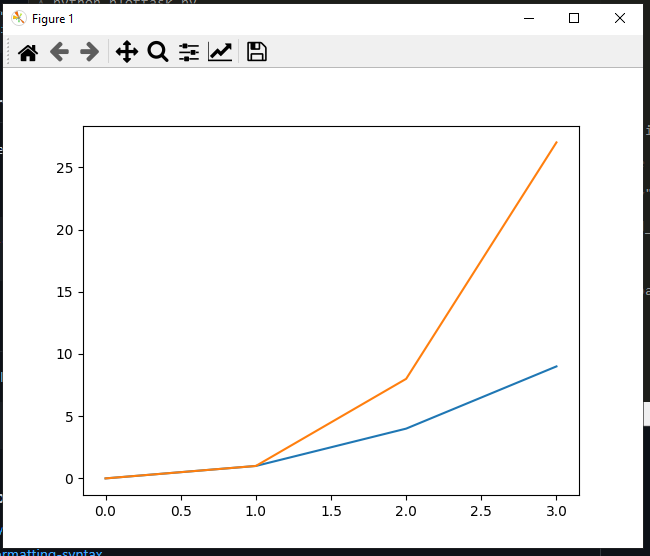
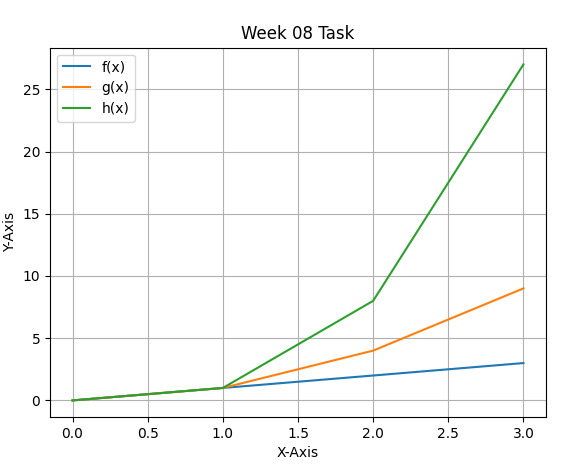
Updating plottask

diff --git a/plottask.py b/plottask.py
@@ -1,4 +1,4 @@
-# Weel 08 Task
+# Week 08 Task
 # Author: Andras Csullog
 
 # Write a program called plottask.py that displays a plot of the functions 
@@ -7,14 +7,21 @@
 # h(x)=x3 
 # in the range [0, 4] on the one set of axes. 
 
-import matplotlib.pyplot as plt
+import matplotlib.pyplot as plt 
 import numpy as np
 
-fpoints = np.array(range(0,4)) 
-gpoints = fpoints * fpoints 
-hpoints = fpoints * fpoints * fpoints
+x = np.array(range(0,4))
+y = x * x
+z = x * x * x
 
-plt.plot(fpoints, gpoints, hpoints)
+plt.title ("Week 08 Task")
+plt.plot (x, x, label = "f(x)")
+plt.plot(x, y, label = "g(x)")
+plt.plot (x, z, label = "h(x)")
+plt.legend ()
+plt.xlabel("X-Axis")
+plt.ylabel("Y-Axis")
+plt.grid()
 plt.show()
 
 # Used or chcked references:
@@ -22,3 +29,7 @@ plt.show()
 # https://stackoverflow.com/questions/18176591/importerror-no-module-named-matplotlib-pyplot 
 # https://www.southampton.ac.uk/~fangohr/teaching/python/book/html/16-scipy.html
 # https://www.w3schools.com/python/matplotlib_plotting.asp
+# https://pythonprogramming.net/legends-titles-labels-matplotlib-tutorial/
+# https://stackoverflow.com/questions/44813601/how-to-set-x-axis-values-in-matplotlib-python
+# https://www.geeksforgeeks.org/how-to-set-x-axis-values-in-matplotlib-in-python/
+# https://www.w3schools.com/python/matplotlib_grid.asp

diff --git a/README.md b/README.md
@@ -76,8 +76,10 @@ A program that displays a plot of the functions f(x)=x, g(x)=x2 and h(x)=x3 in t
 ```
 $ python plottask.py 
 ```
+Output:
 
 ![plot](plot.PNG)
+
 
 
 ### Used references for formatting readme:
